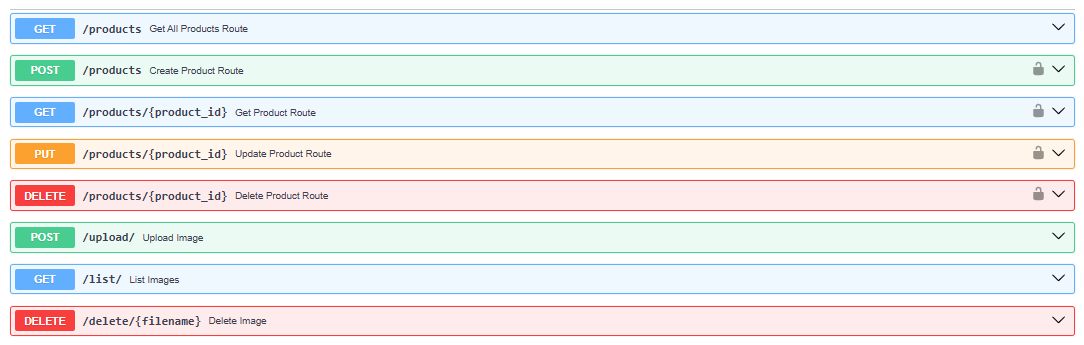
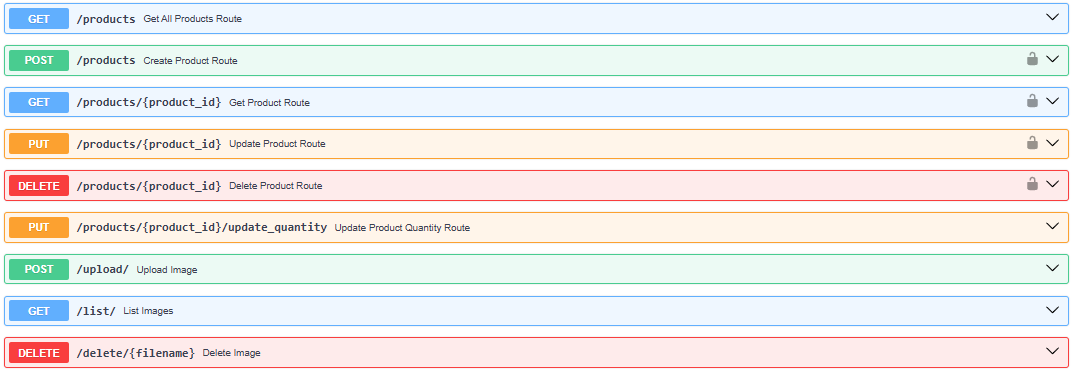
added check for product quantity

Changed region(s): [[0.0, 0.0, 1.0, 0.9855]]

diff --git a/cart_service/routers/cart.py b/cart_service/routers/cart.py
@@ -2,6 +2,7 @@ from fastapi import APIRouter, HTTPException, Depends
 from fastapi.security import OAuth2PasswordBearer
 
 from utils.db import add_to_cart, clear_cart, create_cart, get_cart, remove_from_cart
+from utils.verify_product import verify_product_availability
 from utils.verify_user import verify_token_from_user_service
 
 from models.cart import Cart
@@ -14,7 +15,7 @@ oauth2_scheme = OAuth2PasswordBearer(tokenUrl="login")
 
 @router.post("/cart", response_model=Cart)
 def create_cart_route(token: str = Depends(oauth2_scheme)):
-    user_id = verify_token_from_user_service(token)  # Fetch user_id from token
+    user_id = verify_token_from_user_service(token)
     cart = create_cart(user_id)
     return cart
 
@@ -29,16 +30,17 @@ def get_cart_route(token: str = Depends(oauth2_scheme)):
 
 
 @router.post("/cart/add", response_model=Cart)
-def add_to_cart_route(product: CartItem, token: str = Depends(oauth2_scheme)):
+def add_to_cart_route(cart_item: CartItem, token: str = Depends(oauth2_scheme)):
     user_id = verify_token_from_user_service(token)
-    cart = add_to_cart(user_id, product.product_id, product.quantity)
+    verify_product_availability(cart_item)
+    cart = add_to_cart(user_id, cart_item.product_id, cart_item.quantity)
     return cart
 
 
 @router.post("/cart/remove", response_model=Cart)
-def remove_from_cart_route(product: CartItem, token: str = Depends(oauth2_scheme)):
+def remove_from_cart_route(cart_item: CartItem, token: str = Depends(oauth2_scheme)):
     user_id = verify_token_from_user_service(token)
-    cart = remove_from_cart(user_id, product.product_id, product.quantity)
+    cart = remove_from_cart(user_id, cart_item.product_id, cart_item.quantity)
     return cart
 
 

diff --git a/product_service/routers/products_images.py b/product_service/routers/products_images.py
@@ -3,7 +3,7 @@ import boto3
 import os
 from fastapi import APIRouter, UploadFile, File, HTTPException
 
-# TODO: from utils.verify_user import verify_token_from_user_service
+# Commented out for easy testing: from utils.verify_user import verify_token_from_user_service
 
 router = APIRouter()
 
@@ -23,7 +23,7 @@ s3 = boto3.client(
 # curl.exe -X POST "http://localhost:8002/upload/" -F "file=@C:\Users\...\Screenshot.png"
 @router.post("/upload/")
 async def upload_image(file: UploadFile = File(...)):
-    #    verify_token_from_user_service(token, True)
+    # Commented out for easy testing: verify_token_from_user_service(token, True)
     try:
         file_content = await file.read()  # Read the file contents
         s3.upload_fileobj(io.BytesIO(file_content), BUCKET_NAME, file.filename)
@@ -36,7 +36,7 @@ async def upload_image(file: UploadFile = File(...)):
 # curl.exe -X GET "http://localhost:8002/list/"
 @router.get("/list/")
 def list_images():
-    #    verify_token_from_user_service(token, True)
+    # Commented out for easy testing: verify_token_from_user_service(token, True)
     try:
         response = s3.list_objects_v2(Bucket=BUCKET_NAME)
         files = [item["Key"] for item in response.get("Contents", [])]
@@ -47,7 +47,7 @@ def list_images():
 
 @router.delete("/delete/{filename}")
 def delete_image(filename: str):
-    #    verify_token_from_user_service(token, True)
+    # Commented out for easy testing: verify_token_from_user_service(token, True)
     try:
         s3.delete_object(Bucket=BUCKET_NAME, Key=filename)
         return {"message": "File deleted successfully"}

diff --git a/product_service/routers/products.py b/product_service/routers/products.py
@@ -59,6 +59,27 @@ def update_product_route(product_id: str, product: ProductUpdate, token: str = D
     return ProductResponse(**updated_product)
 
 
+@router.put("/products/{product_id}/update_quantity")
+async def update_product_quantity_route(product_id: str, quantity: int):
+    product = get_product_by_id(product_id)  # Fetch product from DB
+    if not product:
+        raise HTTPException(status_code=404, detail="Product not found")
+
+    if product["quantity"] < quantity:
+        raise HTTPException(status_code=400, detail="Insufficient stock")
+
+    new_quantity = product["quantity"] - quantity
+    update_product(
+        product_id,
+        "SET quantity = :quantity",
+        {":quantity": new_quantity}
+    )
+
+    updated_product = get_product_by_id(product_id)
+
+    return {"message": "Product quantity updated", "product": updated_product}
+
+
 @router.delete("/products/{product_id}", status_code=204)
 def delete_product_route(product_id: str, token: str = Depends(oauth2_scheme)):
     verify_token_from_user_service(token, True)

diff --git a/cart_service/utils/verify_product.py b/cart_service/utils/verify_product.py
@@ -1,1 +1,19 @@
-# TODO: call product service to check available products and quantity
+import os
+import requests
+from fastapi import HTTPException
+
+from models.cartItem import CartItem
+
+PRODUCT_SERVICE_URL = os.getenv("PRODUCT_SERVICE_URL")
+
+
+def verify_product_availability(cart_item: CartItem):
+    response = requests.put(
+        f"{PRODUCT_SERVICE_URL}/products/{cart_item.product_id}/update_quantity?quantity={cart_item.quantity}"
+    )
+
+    if response.status_code != 200:
+        raise HTTPException(
+            status_code=response.status_code,
+            detail=response.json()
+        )

diff --git a/cart_service/utils/db.py b/cart_service/utils/db.py
@@ -66,7 +66,6 @@ def remove_from_cart(user_id: str, product_id: str, quantity: int) -> Dict:
 
     if quantity >= existing_item["quantity"]:
         cart["cart_items"] = [item for item in cart["cart_items"]
-                              # Remove the item entirely
                               if item["product_id"] != product_id]
     else:
         existing_item["quantity"] -= quantity
